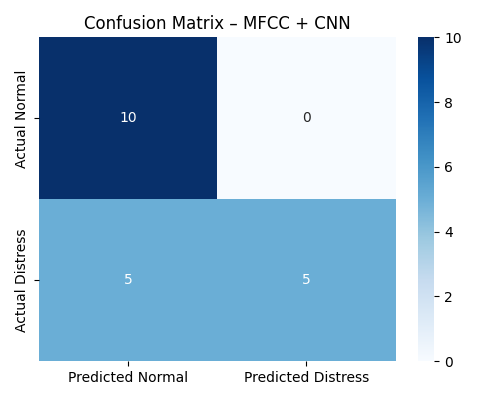
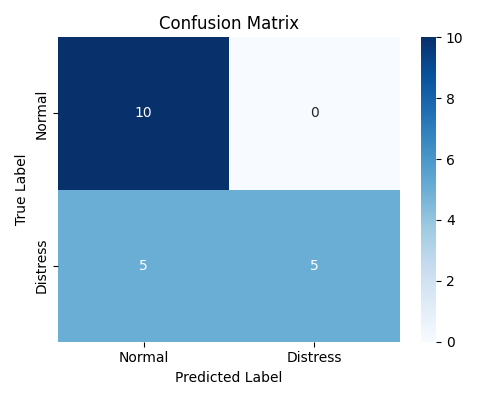
commit

diff --git a/backend/evaluate_mfcc.py b/backend/evaluate_mfcc.py
@@ -6,22 +6,34 @@ import seaborn as sns
 
 from audio_loader import load_audio
 from mfcc_inference import mfcc_score
-from sklearn.metrics import confusion_matrix, accuracy_score, precision_score, recall_score, f1_score
 
-# CONFIG
+from sklearn.metrics import (
+    confusion_matrix,
+    accuracy_score,
+    precision_score,
+    recall_score,
+    f1_score
+)
+
+# ---------------- CONFIG ----------------
 TEST_DIR = "../tests"
 OUTPUT_DIR = "../docs"
+
 SPIKE_THRESHOLD = 0.25
 DISTRESS_THRESHOLD = 0.6
 
 os.makedirs(OUTPUT_DIR, exist_ok=True)
 
+# ---------------------------------------
+
 y_true = []
 y_pred = []
+scores = []
+filenames = []
 
-print("Evaluating MFCC + CNN model...\n")
+print("\nRunning MFCC evaluation...\n")
 
-# NORMAL = 0, DISTRESS = 1
+# LOOP OVER LABELED DATA
 for label_name, true_label in [("normal", 0), ("distress", 1)]:
     folder = os.path.join(TEST_DIR, label_name)
 
@@ -35,61 +47,100 @@ for label_name, true_label in [("normal", 0), ("distress", 1)]:
         peak = np.max(np.abs(audio))
 
         if peak < SPIKE_THRESHOLD:
-            pred_label = 0
             score = 0.0
+            pred = 0
         else:
             score = mfcc_score(audio)
-            pred_label = 1 if score >= DISTRESS_THRESHOLD else 0
+            pred = 1 if score >= DISTRESS_THRESHOLD else 0
 
         y_true.append(true_label)
-        y_pred.append(pred_label)
+        y_pred.append(pred)
+        scores.append(score)
+        filenames.append(file)
 
-        print(f"{file:20s} | GT={true_label} | Pred={pred_label} | Score={score:.2f}")
+        print(
+            f"{file:20s} | GT={true_label} | "
+            f"Score={score:.2f} | Pred={pred}"
+        )
 
-# -----------------------------
-# METRICS
-# -----------------------------
+# ---------------- METRICS ----------------
 acc = accuracy_score(y_true, y_pred)
 prec = precision_score(y_true, y_pred)
 rec = recall_score(y_true, y_pred)
 f1 = f1_score(y_true, y_pred)
 
+print("\n=== METRICS ===")
+print(f"Accuracy : {acc:.3f}")
+print(f"Precision: {prec:.3f}")
+print(f"Recall   : {rec:.3f}")
+print(f"F1-score : {f1:.3f}")
+
 metrics_df = pd.DataFrame([{
     "Accuracy": acc,
     "Precision": prec,
     "Recall": rec,
-    "F1-Score": f1
+    "F1-score": f1
 }])
 
-metrics_df.to_csv(f"{OUTPUT_DIR}/metrics.csv", index=False)
+metrics_df.to_csv(
+    os.path.join(OUTPUT_DIR, "metrics.csv"),
+    index=False
+)
 
-print("\n=== METRICS ===")
-print(metrics_df)
-
-# -----------------------------
-# CONFUSION MATRIX
-# -----------------------------
+# -------- CONFUSION MATRIX (TABLE) -------
 cm = confusion_matrix(y_true, y_pred)
 
 cm_df = pd.DataFrame(
     cm,
-    index=["Actual Normal", "Actual Distress"],
-    columns=["Predicted Normal", "Predicted Distress"]
+    index=["Actual_Normal", "Actual_Distress"],
+    columns=["Pred_Normal", "Pred_Distress"]
 )
 
-cm_df.to_csv(f"{OUTPUT_DIR}/confusion_matrix.csv")
+cm_df.to_csv(
+    os.path.join(OUTPUT_DIR, "confusion_matrix.csv")
+)
 
-# HEATMAP
+# -------- CONFUSION MATRIX (HEATMAP) -----
 plt.figure(figsize=(5, 4))
 sns.heatmap(
-    cm_df,
+    cm,
     annot=True,
     fmt="d",
-    cmap="Blues"
+    cmap="Blues",
+    xticklabels=["Normal", "Distress"],
+    yticklabels=["Normal", "Distress"]
 )
-plt.title("Confusion Matrix – MFCC + CNN")
+plt.xlabel("Predicted Label")
+plt.ylabel("True Label")
+plt.title("Confusion Matrix")
 plt.tight_layout()
-plt.savefig(f"{OUTPUT_DIR}/confusion_matrix.png")
+plt.savefig(
+    os.path.join(OUTPUT_DIR, "confusion_matrix.png")
+)
 plt.close()
 
-print("\nConfusion matrix saved to docs/")
+# -------- SCORE DISTRIBUTION HEATMAP -----
+score_df = pd.DataFrame({
+    "Score": scores,
+    "True Label": y_true
+})
+
+plt.figure(figsize=(6, 4))
+sns.histplot(
+    data=score_df,
+    x="Score",
+    hue="True Label",
+    bins=10,
+    kde=True,
+    palette={0: "green", 1: "red"}
+)
+plt.xlabel("MFCC Distress Score")
+plt.title("Score Distribution Heatmap")
+plt.tight_layout()
+plt.savefig(
+    os.path.join(OUTPUT_DIR, "score_distribution.png")
+)
+plt.close()
+
+print("\nEvaluation complete.")
+print("Outputs saved in /docs/")
